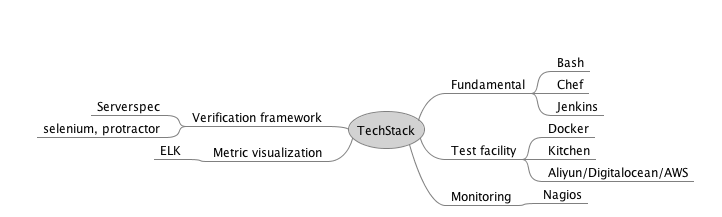
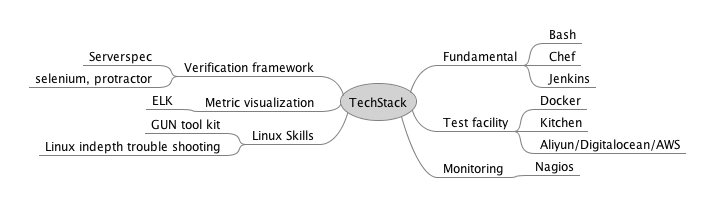
update doc

diff --git a/TechStack/TechStack.mm b/TechStack/TechStack.mm
@@ -21,5 +21,9 @@
 <node CREATED="1439725023855" ID="ID_1824515224" MODIFIED="1439725024589" POSITION="left" TEXT="Metric visualization">
 <node CREATED="1439725025609" ID="ID_1231333159" MODIFIED="1439725026606" TEXT="ELK"/>
 </node>
+<node CREATED="1439735579715" ID="ID_428175662" MODIFIED="1439735583322" POSITION="left" TEXT="Linux Skills">
+<node CREATED="1439735585088" ID="ID_1465854243" MODIFIED="1439735589616" TEXT="GUN tool kit"/>
+<node CREATED="1439735594074" ID="ID_8638417" MODIFIED="1439735609949" TEXT="Linux indepth trouble shooting"/>
+</node>
 </node>
 </map>

diff --git a/README.md b/README.md
@@ -2,7 +2,7 @@
 
 Link Of Current Page: https://github.com/DennyZhang/devops-knowledgebase
 
-DevOps Role = quality engineers + automation engineers + Ops + Security
+DevOps Role = Quality Engineers + Automation Engineers + Ops + Security
 
 Characteristics Of DevOps Work:
 
